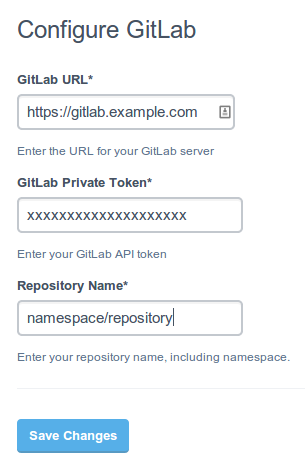
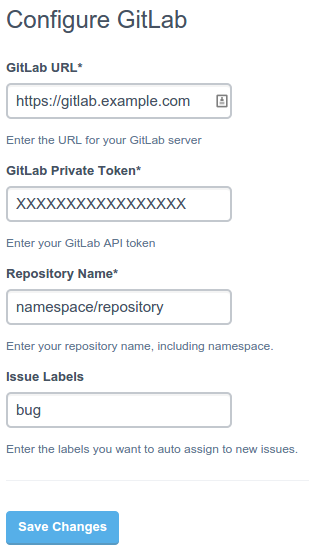
bumbed version and made changes for distribution on pypi

Changed region(s): [[0.0, 0.0, 0.9443, 0.7778], [0.0, 0.8974, 0.4426, 0.9872], [0.0, 0.8077, 0.9738, 0.8376]]

diff --git a/setup.py b/setup.py
@@ -6,7 +6,7 @@ sentry-gitlab
 An extension for Sentry which integrates with GitLab. Specifically, it allows
 you to easily create issues from events within Sentry.
 
-:copyright: (c) 2012 Pancentric Ltd, see AUTHORS for more details.
+:copyright: (c) 2015 Pancentric Ltd, see AUTHORS for more details.
 :license: BSD, see LICENSE for more details.
 """
 from setuptools import setup, find_packages
@@ -24,10 +24,10 @@ install_requires = [
 
 setup(
     name='sentry-gitlab',
-    version='0.1.1',
+    version='0.2.0',
     author='Alex Crowe',
     author_email='alex@pancentric.com',
-    url='http://github.com/pancentric/sentry-gitlab',
+    url='http://github.com/ajcrowe/sentry-gitlab',
     description='A Sentry extension which integrates with GitLab.',
     long_description=__doc__,
     license='BSD',

diff --git a/README.md b/README.md
@@ -8,7 +8,13 @@ This module used the [sentry-github](https://github.com/getsentry/sentry-github)
 Install
 -------
 
-Clone to repository to your sentry install. 
+Install the package via `pip`
+
+```
+pip install sentry-gitlab
+```
+
+Or you can clone to repository to your sentry install.
 
     git clone https://github.com/pancentric/sentry-gitlab.git
 
@@ -16,16 +22,12 @@ Then run the setup script to install the plugin and it's dependencies.
 
     python setup.py install
 
-Alternatively you can use `pip`
-
-    pip install -e "git+https://github.com/ajcrowe/sentry-gitlab.git@v0.1.0#egg=sentry-gitlab"
-
 Restart Sentry and you should see a new plugin under `manage integrations` for your projects.
 
 Configure
 ---------
 
-Once enabled you can configure your settings on each project.
+Once enabled you can configure your settings for the project. You can also include default tags you wish to apply to issues created.
 
 ![settings](https://github.com/pancentric/sentry-gitlab/raw/master/docs/images/settings.png)
 
